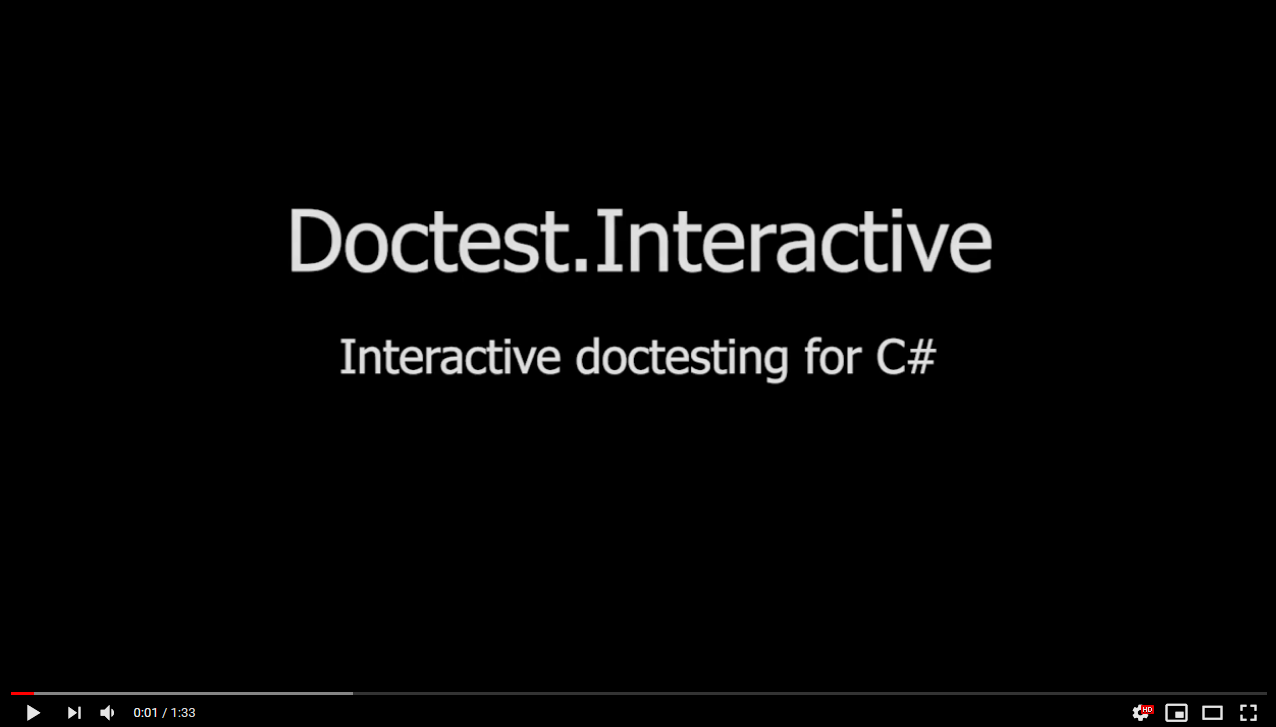
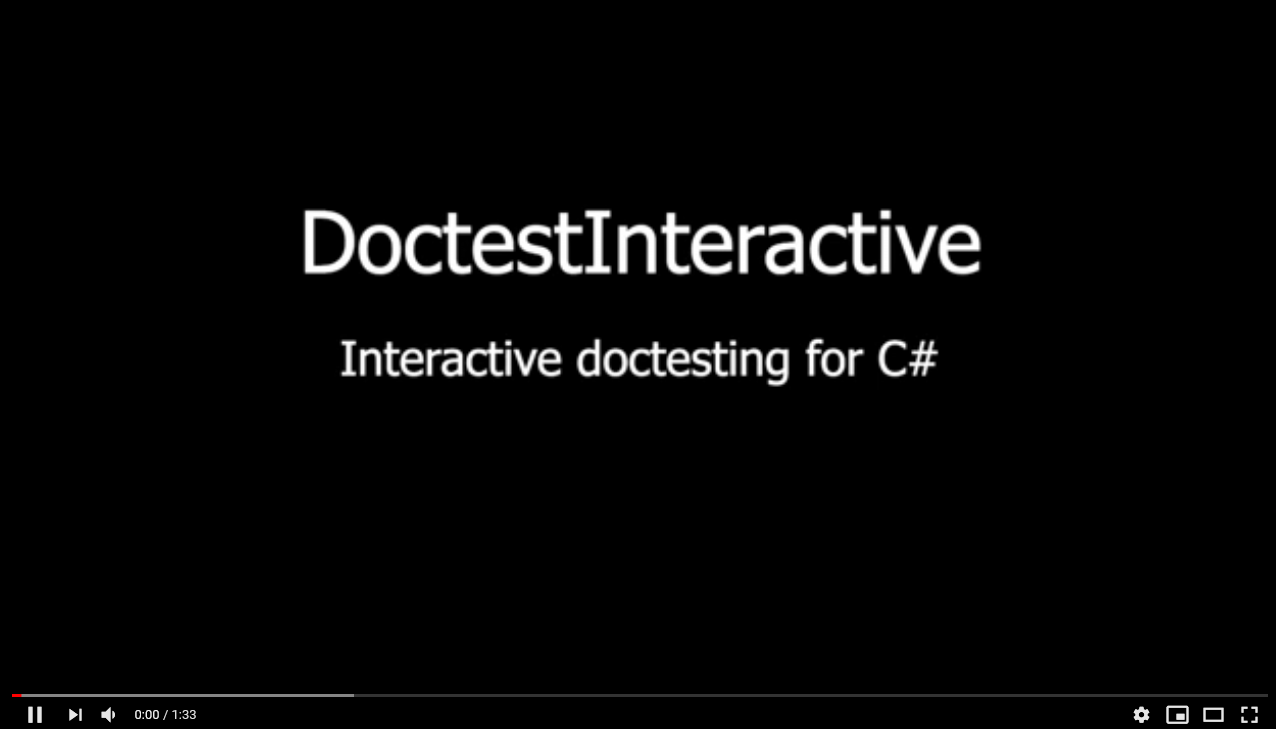
revise project name

diff --git a/README.md b/README.md
@@ -1,16 +1,16 @@
-# [Doctest.Interactive](https://github.com/tomakita/Doctest.Interactive)
+# [DoctestInteractive](https://github.com/tomakita/DoctestInteractive)
 
-**Doctest.Interactive** is a Visual Studio extension that allows you to use C# to specify correctness properties for the C# program being edited.  Doctest.Interactive uses [FsCheck](https://github.com/fscheck/FsCheck) to make a best-effort attempt to verify that those properties are satisfied in real time, as you edit your code, and provides feedback when those properties are not satisfied.
+**DoctestInteractive** is a Visual Studio extension that allows you to use C# to specify correctness properties for the C# program being edited.  DoctestInteractive uses [FsCheck](https://github.com/fscheck/FsCheck) to make a best-effort attempt to verify that those properties are satisfied in real time, as you edit your code, and provides feedback when those properties are not satisfied.
 
-**Doctest.Interactive is in beta.  Please open an issue if you have a feature request or a bug report!**
+**DoctestInteractive is in beta.  Please open an issue if you have a feature request or a bug report!**
 
 # Demo Video
 
-[![demo](visuals/demo_thumbnail.png)](https://www.youtube.com/ "Doctest.Interactive Demo Video")
+[![demo](visuals/demo_thumbnail.png)](https://www.youtube.com/ "DoctestInteractive Demo Video")
 
 # How to Get It
 
-- On the Visual Studio Marketplace as "DoctestInteractive" (no ".")
+- On the Visual Studio Marketplace as "DoctestInteractive"
 - Has only been tested using Visual Studio 2017
 - For use with .NET Framework 4.6.1 and up
 
@@ -18,7 +18,7 @@
 
 For a complete, runnable example, see `/examples/Superhero.cs`.
 
-Doctest.Interactive operates upon two kinds of objects: `spec`s, and `refinement`s.  
+DoctestInteractive operates upon two kinds of objects: `spec`s, and `refinement`s.  
 
 A spec is given as a C# function, and defines a correctness property of the program being edited.  One or more specs can be given for functions, properties, and constructors.  A spec must return either `FsCheck.Property` or `bool`, and must be enclosed in `<spec></spec>` tags in the corresponding function/property/constructor's XML documentation.
 
@@ -34,18 +34,18 @@ Specs and refinements have access to all types in FsCheck, as well as all types 
 
 <table><tr><td><img src="visuals/scope_ex.png"></td></tr></table>
 
-Doctest.Interactive is currently in beta.  If you encounter instability when using it, check the log files located in `%LocalAppData%\Microsoft\VisualStudio\<your version of VS>\Extensions\<wherever VS chose to install Doctest.Interactive>`.  Feel free to open issues for bug reports, feature requests, or any other feedback!
+DoctestInteractive is currently in beta.  If you encounter instability when using it, check the log files located in `%LocalAppData%\Microsoft\VisualStudio\<your version of VS>\Extensions\<wherever VS chose to install DoctestInteractive>`.  Feel free to open issues for bug reports, feature requests, or any other feedback!
 
 # Limitations & Planned Improvements
 
-- Doctest.Interactive uses [property based testing](https://hypothesis.works/articles/what-is-property-based-testing/) to execute specs.  Therefore, a spec that doesn't fail does not imply that the spec is satisfied by the code being specified -- it only means that the property based testing framework being used ([FsCheck](https://github.com/fscheck/FsCheck)) was not able to find a counterexample to the spec.
-- .NET Core is not yet supported.  Doctest.Interactive has a dependency on AppDomain.Unload, and until similar functionality is added to .NET Core (currently scheduled for .NET Core 3.0), only .NET Framework will be supported.
-- Doctest.Interactive does its best to show you syntax errors made in specs and refinements:<br/><br/><table><tr><td>
+- DoctestInteractive uses [property based testing](https://hypothesis.works/articles/what-is-property-based-testing/) to execute specs.  Therefore, a spec that doesn't fail does not imply that the spec is satisfied by the code being specified -- it only means that the property based testing framework being used ([FsCheck](https://github.com/fscheck/FsCheck)) was not able to find a counterexample to the spec.
+- .NET Core is not yet supported.  DoctestInteractive has a dependency on AppDomain.Unload, and until similar functionality is added to .NET Core (currently scheduled for .NET Core 3.0), only .NET Framework will be supported.
+- DoctestInteractive does its best to show you syntax errors made in specs and refinements:<br/><br/><table><tr><td>
 <img src="visuals/error_messaging.png"></td></tr></table>
 But it doesn't show you **all** kinds of errors.  Such error messaging is difficult to implement, and is an area which can be improved upon in future releases.
 - To support generics and inequalities, `<` and `>` are allowed in specs and refinements.<br/><br/><table><tr><td>
 <img src="visuals/non_cer_ex.png"></td></tr></table>
 However, `<` and `>` are not legal characters in XML documents.  Therefore, specs and refinements which use these characters will break other clients of a code file's XML documentation, such as the [Sandcastle Help File Builder](https://github.com/EWSoftware/SHFB) and Visual Studio's own XML documentation parser (the thing that allows user-defined Intellisense tooltips to be shown on hover).  With this in mind, the character entity reference for each of `<` (`&lt;`) and `>` (`&gt;`) can be used in specs and refinements:<br/><br/><table><tr><td>
 <img src="visuals/cer_ex.png"></td></tr></table>
-- Doctest.Interactive can only be used when editing code that's associated with a `.sln` file.  Furthermore, that `.sln` file must be saved whenever a new file or reference is added to any of its projects -- otherwise Doctest.Interactive won't know that they exist.
+- DoctestInteractive can only be used when editing code that's associated with a `.sln` file.  Furthermore, that `.sln` file must be saved whenever a new file or reference is added to any of its projects -- otherwise DoctestInteractive won't know that they exist.
 - Specs can only be used to specify public methods, properties, and constructors.  Refinements can only be used to specify public classes.
